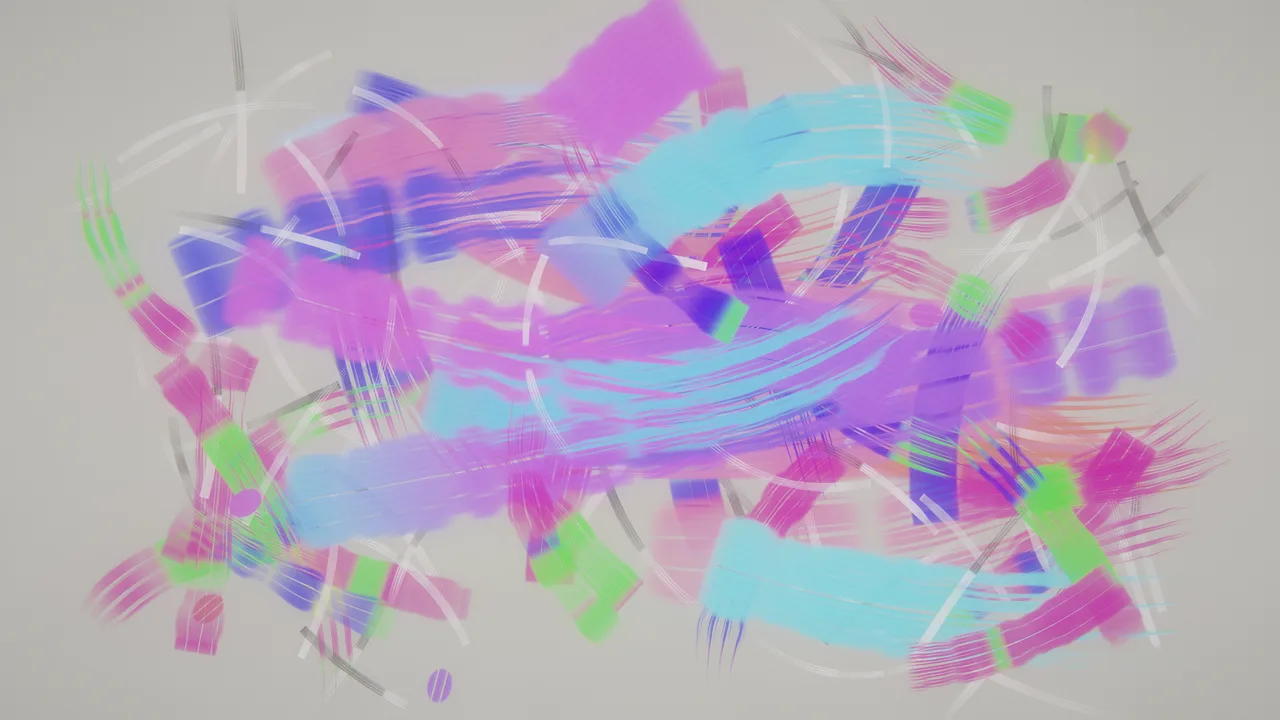
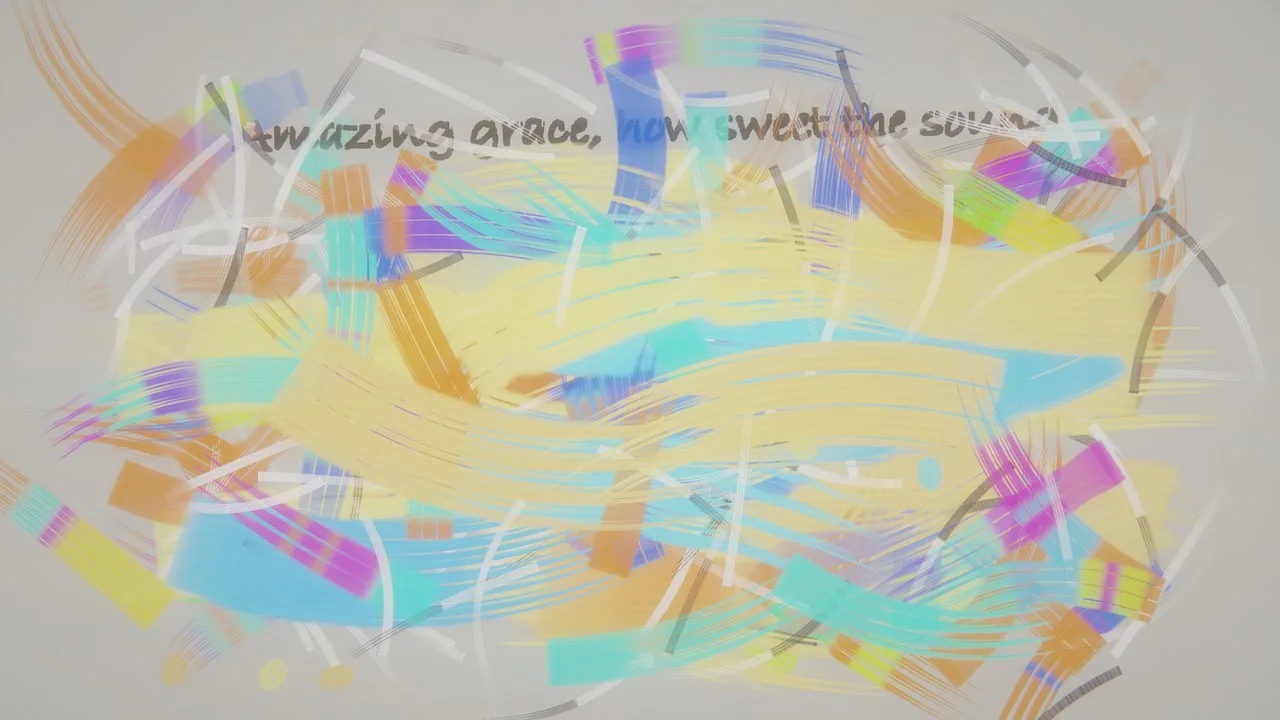
Rooms intro on camera views; painting shows painted lyrics (Amazing Grace)

diff --git a/index.html b/index.html
@@ -47,6 +47,12 @@
   <p>Play anything: Spotify, Apple Music, a video, a record on the turntable. Hazeshow hears the beat, finds the downbeat, knows when the chorus is coming, and runs the lights the way a lighting designer would.</p>
 </section>
 
+<section class="rooms-head">
+  <div class="label">Rooms</div>
+  <h2>A room for every song, seen from every seat.</h2>
+  <p>Every room has its own camera angles, from the back of the house to the front rail and close on the instruments, and the show cuts between them on the music's phrases, like a concert film. Or turn the cuts off and stay in your seat.</p>
+</section>
+
 <section id="rooms" class="rooms">
   <article class="room">
     <div class="room-copy">
@@ -94,7 +100,7 @@
     <figure><img src="img/galaxy.webp" alt="A spiral galaxy" loading="lazy"><figcaption>Galaxy</figcaption></figure>
     <figure><img src="img/terrain.webp" alt="Neon hills rolling toward a striped sun" loading="lazy"><figcaption>Terrain</figcaption></figure>
     <figure><img src="img/garden.webp" alt="Glowing flowers under a night sky" loading="lazy"><figcaption>Garden</figcaption></figure>
-    <figure><img src="img/painting.webp" alt="A canvas of brush strokes painted to the song" loading="lazy"><figcaption>Painting, with the lyrics brushed in as they're sung</figcaption></figure>
+    <figure><img src="img/painting.webp" alt="A canvas of brush strokes with the line Amazing grace, how sweet the sound painted across it" loading="lazy"><figcaption>Painting, with the lyrics brushed in as they're sung</figcaption></figure>
   </div>
 </section>
 

diff --git a/style.css b/style.css
@@ -52,9 +52,13 @@ nav a:hover { color: var(--ink); }
 .statement p { font: 300 clamp(20px, 2vw, 27px)/1.45 var(--display); font-stretch: 125%; letter-spacing: -0.015em; color: var(--ink); max-width: 900px; }
 
 /* Rooms: big pictures, little text */
+.rooms-head { padding-top: 100px; padding-bottom: 0; }
+.rooms-head p { color: var(--mute); font-size: 17px; max-width: 640px; margin-top: 16px; }
+
 /* Rooms: two to a row, the name and a sentence above each picture (his note), so all four
    are in view at once rather than a long scroll. */
-.rooms { display: grid; grid-template-columns: repeat(2, minmax(0, 1fr)); column-gap: 40px; row-gap: 80px; padding-top: 80px; }
+.rooms { display: grid; grid-template-columns: repeat(2, minmax(0, 1fr)); column-gap: 40px; row-gap: 80px; padding-top: 56px;
+  max-width: calc(var(--wide) + 2 * max(20px, 5vw)); margin: 0 auto; }
 .room { width: 100%; display: flex; flex-direction: column; }
 .room video { width: 100%; aspect-ratio: 16 / 9; object-fit: cover; border-radius: 6px; background: #0b0b0d; margin-top: auto; }
 .room-copy { margin-bottom: 22px; }
